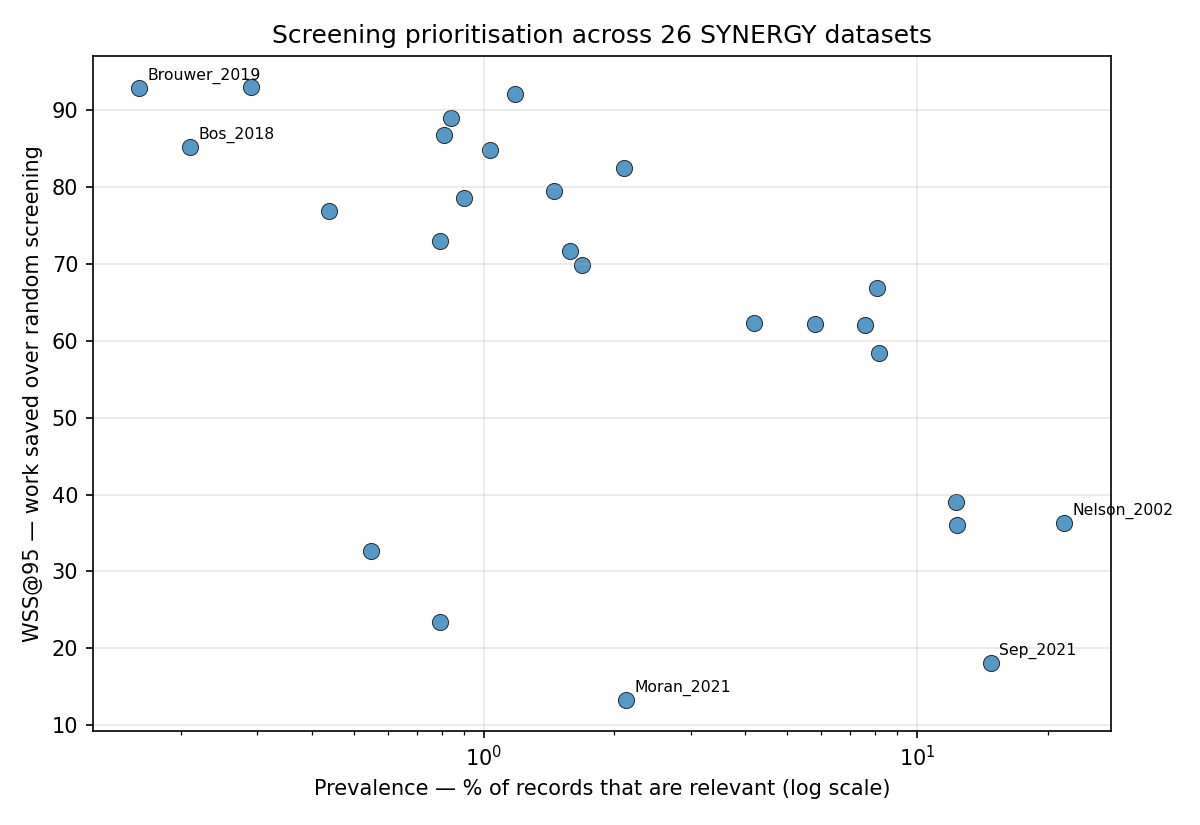
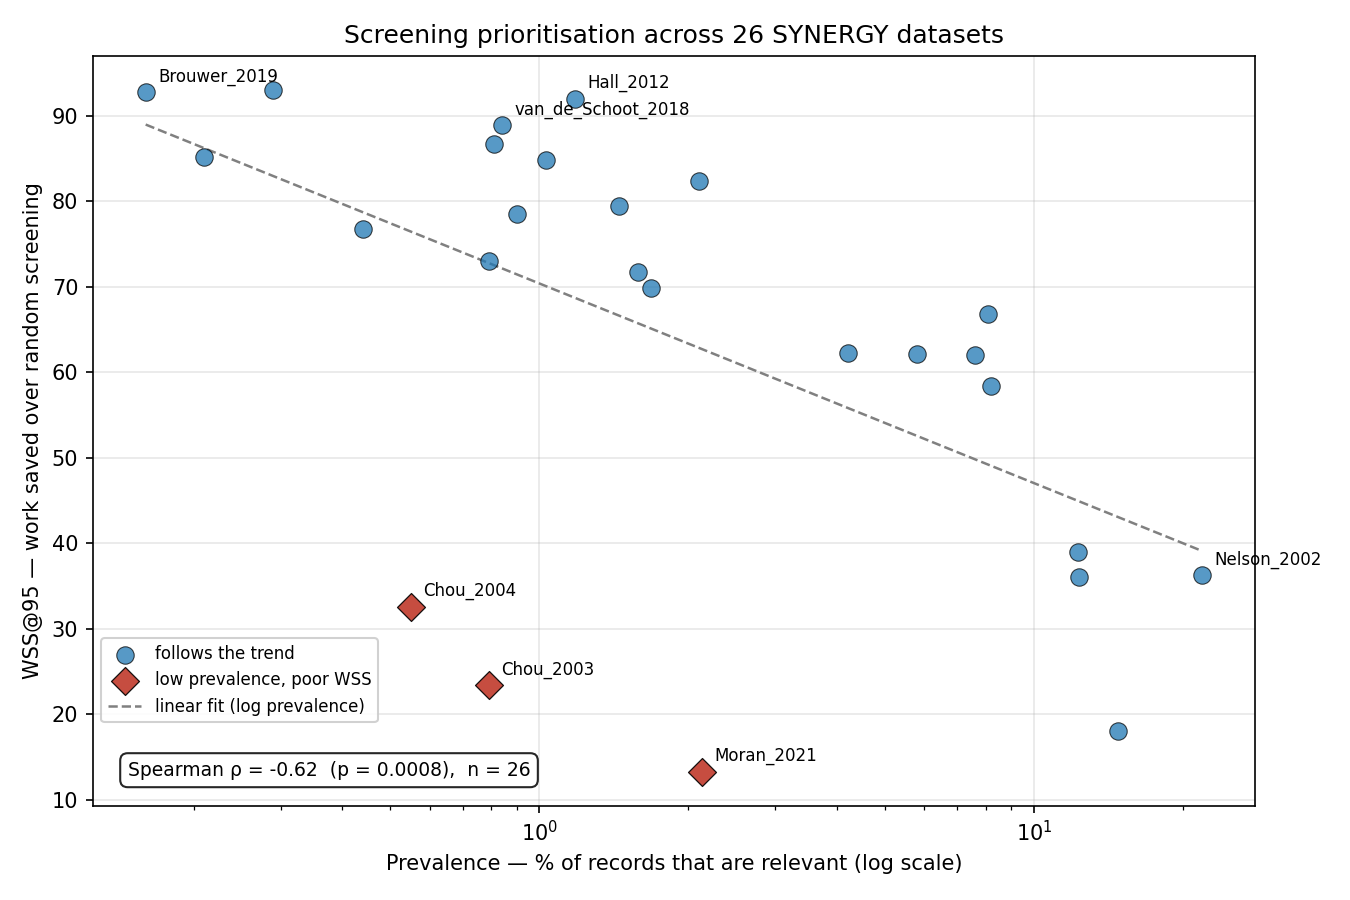
Improve headline figure: label argued datasets, flag anomalies

diff --git a/src/replot.py b/src/replot.py
@@ -1,0 +1,84 @@
+"""Regenerate the headline figure from an existing data/sweep.csv.
+
+Does NOT re-run the sweep -- it only redraws. Run after `python3 -m src.sweep`.
+
+Why this exists: the original labelling rule (extremes of prevalence + single worst
+WSS) was chosen before the cohesion analysis. The datasets the write-up actually
+argues about -- Chou_2003, Chou_2004, Hall_2012 -- were left as anonymous dots, so a
+reader following the text could not locate them. A figure should label the points
+its accompanying argument names.
+
+Usage:
+    python3 -m src.replot
+"""
+
+from __future__ import annotations
+
+import numpy as np
+import pandas as pd
+import matplotlib
+matplotlib.use("Agg")
+import matplotlib.pyplot as plt
+from scipy import stats
+
+# Points the write-up discusses by name, so they must be findable on the chart.
+ARGUED = [
+    "Moran_2021",          # lowest WSS, least textually distinct
+    "Chou_2003",           # low prevalence, poor WSS, UNEXPLAINED
+    "Chou_2004",           # low prevalence, poor WSS
+    "Hall_2012",           # low prevalence, excellent WSS -- the contrast case
+    "Brouwer_2019",        # lowest prevalence, excellent WSS
+    "van_de_Schoot_2018",  # validated against ASReview
+    "Nelson_2002",         # development dataset, high prevalence
+]
+
+
+def main() -> None:
+    d = pd.read_csv("data/sweep.csv")
+
+    # Datasets that defy the prevalence trend: below 2% prevalence but poor WSS.
+    anomalous = set(d[(d.prevalence_pct < 2.2) & (d.wss_at_95 < 50)].dataset)
+
+    fig, ax = plt.subplots(figsize=(9, 6))
+
+    typical = d[~d.dataset.isin(anomalous)]
+    ax.scatter(typical.prevalence_pct, typical.wss_at_95,
+               s=70, alpha=0.75, edgecolor="black", linewidth=0.5,
+               label="follows the trend", zorder=3)
+    odd = d[d.dataset.isin(anomalous)]
+    ax.scatter(odd.prevalence_pct, odd.wss_at_95,
+               s=90, alpha=0.9, color="#c0392b", edgecolor="black", linewidth=0.6,
+               marker="D", label="low prevalence, poor WSS", zorder=4)
+
+    # Trend line on log-prevalence, with the correlation stated on the figure.
+    logp = np.log10(d.prevalence_pct)
+    fit = np.poly1d(np.polyfit(logp, d.wss_at_95, 1))
+    xs = np.linspace(logp.min(), logp.max(), 100)
+    ax.plot(10 ** xs, fit(xs), color="grey", linestyle="--", linewidth=1.2,
+            zorder=2, label="linear fit (log prevalence)")
+
+    rho, p = stats.spearmanr(d.prevalence_pct, d.wss_at_95)
+    ax.text(0.03, 0.04, f"Spearman ρ = {rho:.2f}  (p = {p:.4f}),  n = 26",
+            transform=ax.transAxes, fontsize=9,
+            bbox=dict(boxstyle="round,pad=0.4", facecolor="white", alpha=0.85))
+
+    for _, r in d[d.dataset.isin(ARGUED)].iterrows():
+        ax.annotate(r["dataset"], (r["prevalence_pct"], r["wss_at_95"]),
+                    fontsize=8, xytext=(6, 5), textcoords="offset points", zorder=5)
+
+    ax.set_xscale("log")
+    ax.set_xlabel("Prevalence — % of records that are relevant (log scale)")
+    ax.set_ylabel("WSS@95 — work saved over random screening")
+    ax.set_title("Screening prioritisation across 26 SYNERGY datasets")
+    ax.grid(alpha=0.3, zorder=1)
+    ax.legend(loc="lower left", bbox_to_anchor=(0, 0.10), fontsize=8, framealpha=0.9)
+    fig.tight_layout()
+    fig.savefig("data/wss_vs_prevalence.png", dpi=150)
+
+    print("Regenerated data/wss_vs_prevalence.png")
+    print(f"Spearman rho = {rho:.2f}, p = {p:.4f}")
+    print(f"Highlighted as anomalous: {sorted(anomalous)}")
+
+
+if __name__ == "__main__":
+    main()
